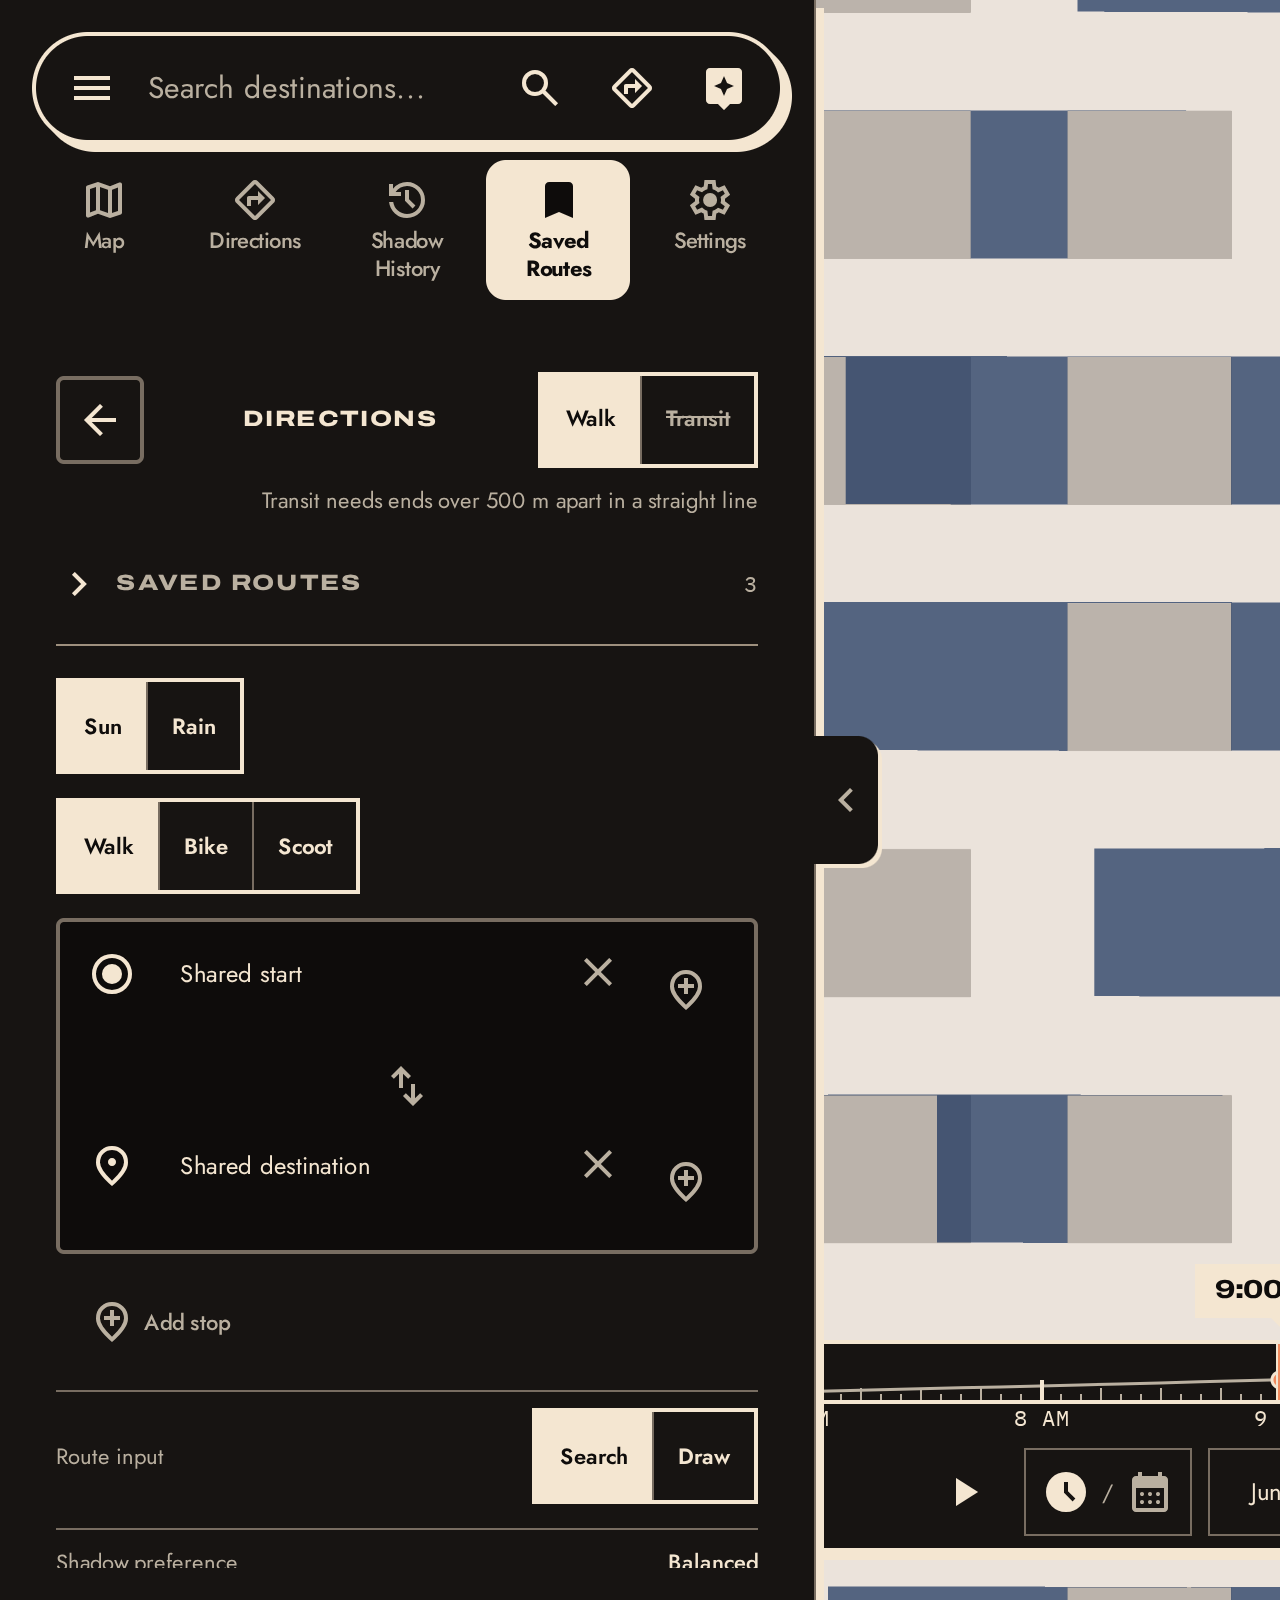
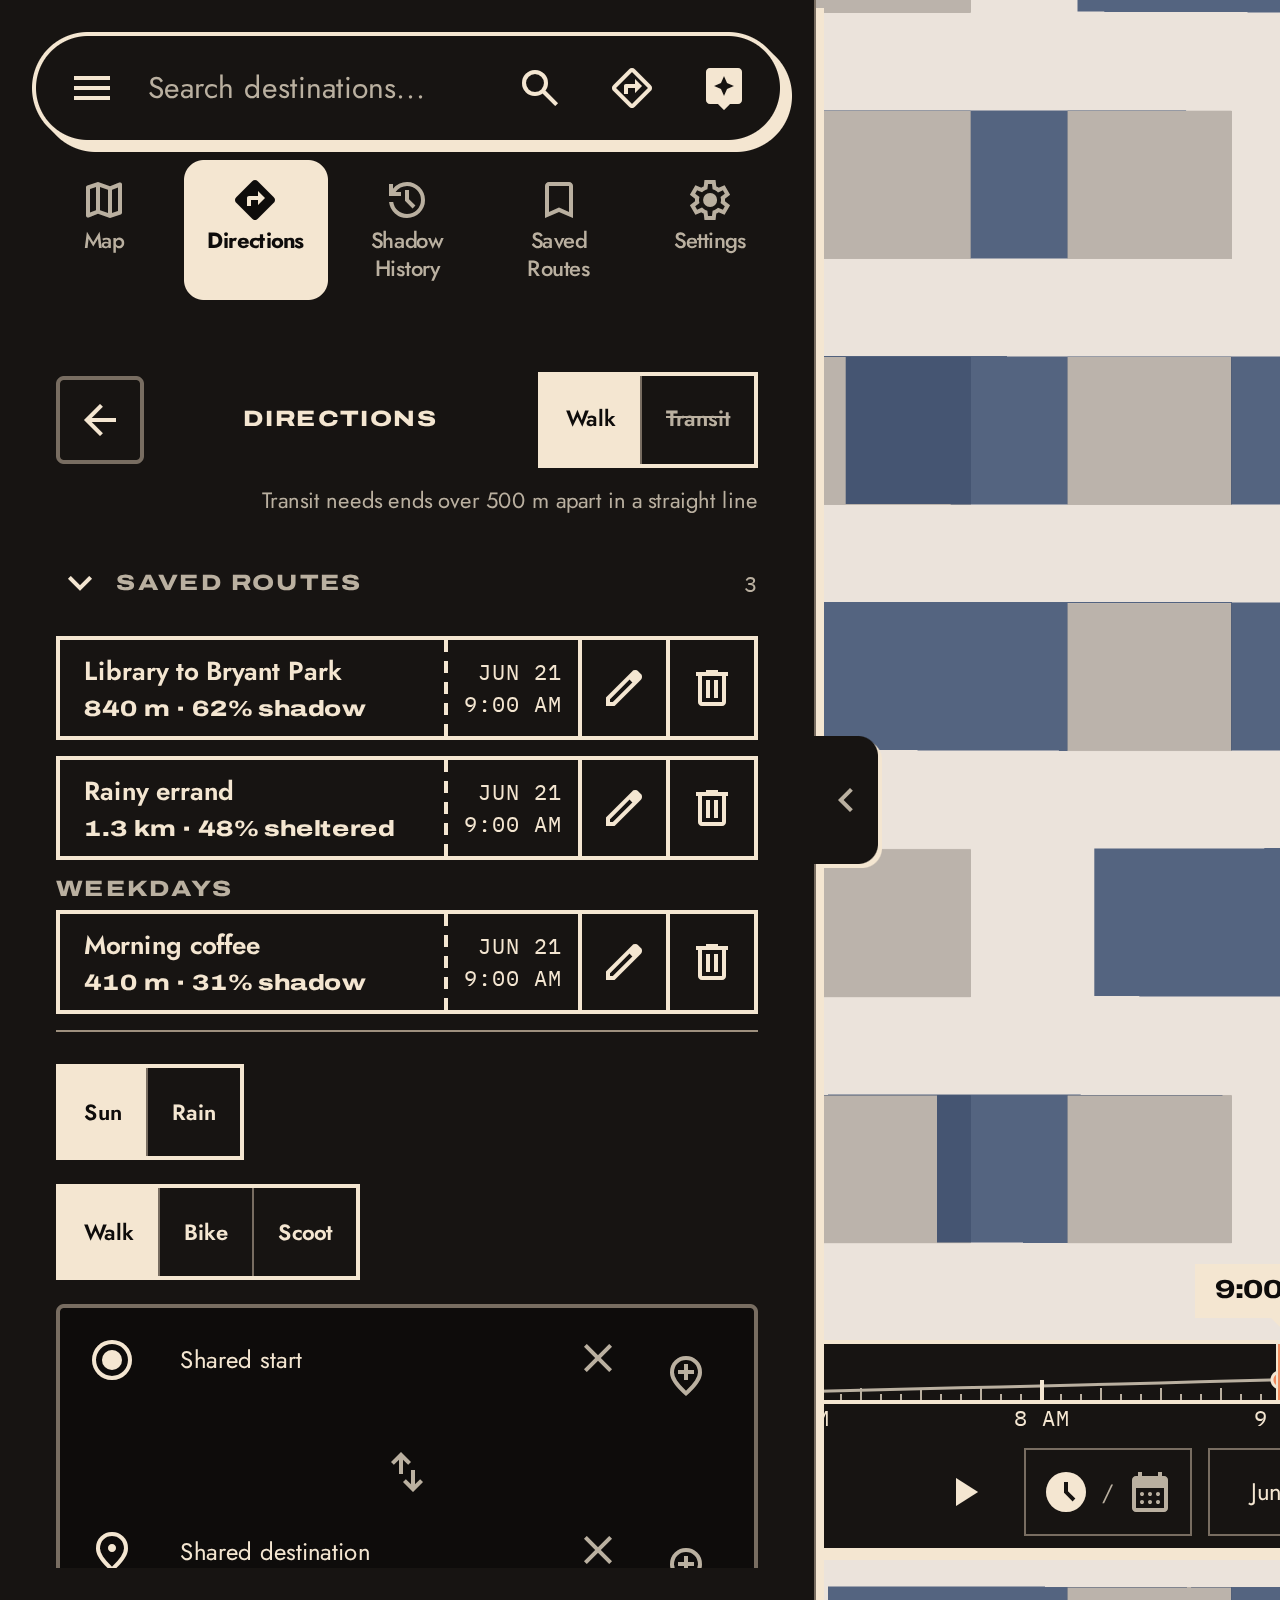
fix(design): R8b review fixes — stub in the departure zone, figure in the number face
The stub printed timeOfDayMinutes, which the save handler takes from the
browser clock, so a 9 PM New York walk saved from Los Angeles read 6 PM;
it now formats trip.departAt in the departure stop's zone. The figure
takes the numeric face in full ink, delete's hover colour shows, folders
are labelled by their kicker, the rename field is 16px and long names get
a title. Shots capture the opened section on desktop too. Records R8b in
the Track R brief.

Refs #189

diff --git a/app/components/SavedRoutesSection.tsx b/app/components/SavedRoutesSection.tsx
@@ -1,16 +1,25 @@
-import { useEffect, useRef, useState, memo } from "react";
+import { useEffect, useId, useRef, useState, memo } from "react";
 import type { SavedRoute, SavedFolder } from "../lib/savedRoutes";
 import { routeShadowLabel } from "../lib/routeTradeoff";
 import Kicker from "./ui/Kicker";
 
-const MONTHS = ["Jan", "Feb", "Mar", "Apr", "May", "Jun", "Jul", "Aug", "Sep", "Oct", "Nov", "Dec"];
-
-/** The date and time a saved figure was computed for, as a ticket stub prints it. */
-function stubDate(dateIso: string, minutes: number): [string, string] {
-  const [, month, day] = dateIso.split("-").map(Number);
-  const h = Math.floor(minutes / 60);
-  const time = `${h % 12 || 12}:${String(minutes % 60).padStart(2, "0")} ${h < 12 ? "AM" : "PM"}`;
-  return [`${MONTHS[month - 1] ?? ""} ${day}`, time];
+/**
+ * The date and time a saved figure was computed for, as a ticket stub prints
+ * it: the trip's departure instant in the departure stop's own zone — the map
+ * place's time the timeline showed, never the browser's clock (a 9 PM New York
+ * walk saved from Los Angeles must not read 6 PM). Null when the record holds
+ * no readable instant or zone.
+ */
+function stubDate(at: { instant: string; zone: string } | undefined): [string, string] | null {
+  const d = at ? new Date(at.instant) : null;
+  if (!at || !d || Number.isNaN(d.getTime())) return null;
+  try {
+    const format = (options: Intl.DateTimeFormatOptions) =>
+      new Intl.DateTimeFormat("en-US", { timeZone: at.zone, ...options }).format(d).replace(/\u202f/g, " ");
+    return [format({ month: "short", day: "numeric" }), format({ hour: "numeric", minute: "2-digit" })];
+  } catch {
+    return null;
+  }
 }
 
 interface SavedRoutesSectionProps {
@@ -34,6 +43,7 @@ const SavedRoutesSection = memo(function SavedRoutesSection({
   const [renamingId, setRenamingId] = useState<string | null>(null);
   const [renameValue, setRenameValue] = useState("");
   const renameInputRef = useRef<HTMLInputElement>(null);
+  const folderIdPrefix = useId();
 
   useEffect(() => {
     if (!renamingId) return;
@@ -72,7 +82,7 @@ const SavedRoutesSection = memo(function SavedRoutesSection({
     const distKm = r.routeOption.distanceM >= 1000
       ? `${(r.routeOption.distanceM / 1000).toFixed(1)} km`
       : `${Math.round(r.routeOption.distanceM)} m`;
-    const [day, time] = stubDate(r.dateIso, r.timeOfDayMinutes);
+    const stub = stubDate(r.trip?.departAt);
     return (
       <li key={r.id} className="flex min-w-0 border-2 border-ink bg-panel">
         {renamingId === r.id ? (
@@ -87,7 +97,8 @@ const SavedRoutesSection = memo(function SavedRoutesSection({
             }}
             onBlur={() => commitRename(r.id)}
             className="min-h-11 min-w-0 flex-1 px-3 focus-visible:outline-2 focus-visible:-outline-offset-4 focus-visible:outline-current"
-            style={{ background: "var(--color-ground)", color: "var(--color-ink)", fontSize: "var(--text-small)" }}
+            // 16px: anything smaller makes iOS Safari zoom when the field takes focus.
+            style={{ background: "var(--color-ground)", color: "var(--color-ink)", fontSize: "1rem" }}
           />
         ) : (
           <button type="button"
@@ -95,31 +106,31 @@ const SavedRoutesSection = memo(function SavedRoutesSection({
             className="flex min-h-11 min-w-0 flex-1 items-stretch text-left hover:bg-ground focus-visible:outline-2 focus-visible:-outline-offset-4 focus-visible:outline-current"
           >
             <span className="flex min-w-0 flex-1 flex-col justify-center px-3 py-1.5">
-              <span className="truncate font-semibold" style={{ color: "var(--color-ink)", fontSize: "var(--text-small)" }}>{r.name}</span>
-              <span className="text-[11px] tabular-nums" style={{ color: "var(--color-ink-muted)" }}>{distKm} · {protectionLabel}</span>
+              <span className="truncate font-semibold" title={r.name} style={{ color: "var(--color-ink)", fontSize: "var(--text-small)" }}>{r.name}</span>
+              <span className="font-numeric text-[11px] font-extrabold tabular-nums" style={{ color: "var(--color-ink)" }}>{distKm} · {protectionLabel}</span>
             </span>
-            <span
-              className="flex shrink-0 flex-col items-end justify-center border-l-2 border-dashed border-ink px-2 font-mono text-[11px] uppercase tabular-nums"
-              style={{ color: "var(--color-ink)" }}
-            >
-              <span>{day}</span>
-              <span>{time}</span>
-            </span>
+            {stub && (
+              <span
+                className="flex shrink-0 flex-col items-end justify-center border-l-2 border-dashed border-ink px-2 font-mono text-[11px] uppercase tabular-nums"
+                style={{ color: "var(--color-ink)" }}
+              >
+                <span>{stub[0]}</span>
+                <span>{stub[1]}</span>
+              </span>
+            )}
           </button>
         )}
         <button type="button"
           onClick={() => { setRenamingId(r.id); setRenameValue(r.name); }}
           aria-label={`Rename ${r.name}`}
-          className="flex w-11 shrink-0 items-center justify-center border-l-2 border-ink focus-visible:outline-2 focus-visible:-outline-offset-4 focus-visible:outline-current"
-          style={{ color: "var(--color-ink)" }}
+          className="flex w-11 shrink-0 items-center justify-center border-l-2 border-ink text-ink focus-visible:outline-2 focus-visible:-outline-offset-4 focus-visible:outline-current"
         >
           <span className="material-symbols-outlined text-lg" aria-hidden="true">edit</span>
         </button>
         <button type="button"
           onClick={() => { if (confirm(`Delete "${r.name}"?`)) onDelete(r.id); }}
           aria-label={`Delete ${r.name}`}
-          className="flex w-11 shrink-0 items-center justify-center border-l-2 border-ink hover:text-danger focus-visible:outline-2 focus-visible:-outline-offset-4 focus-visible:outline-current"
-          style={{ color: "var(--color-ink)" }}
+          className="flex w-11 shrink-0 items-center justify-center border-l-2 border-ink text-ink hover:text-danger focus-visible:outline-2 focus-visible:-outline-offset-4 focus-visible:outline-current"
         >
           <span className="material-symbols-outlined text-lg" aria-hidden="true">delete</span>
         </button>
@@ -151,8 +162,8 @@ const SavedRoutesSection = memo(function SavedRoutesSection({
         <div className="mt-1 flex flex-col gap-2">
           {uncategorised.length > 0 && <ul className="flex flex-col gap-2">{uncategorised.map(renderRoute)}</ul>}
           {byFolder.map(({ folder, routes: fr }) => (
-            <section key={folder.id} aria-label={folder.name} className="flex flex-col gap-1">
-              <Kicker>{folder.name}</Kicker>
+            <section key={folder.id} aria-labelledby={`${folderIdPrefix}-${folder.id}`} className="flex flex-col gap-1">
+              <Kicker id={`${folderIdPrefix}-${folder.id}`}>{folder.name}</Kicker>
               <ul className="flex flex-col gap-2">{fr.map(renderRoute)}</ul>
             </section>
           ))}

diff --git a/app/components/__tests__/SavedRoutesSection.test.tsx b/app/components/__tests__/SavedRoutesSection.test.tsx
@@ -5,6 +5,7 @@ import SavedRoutesSection from "../SavedRoutesSection";
 import type { ResolvedExposureContext } from "../../lib/exposure";
 import type { RouteOption } from "../../lib/routing";
 import type { SavedFolder, SavedRoute } from "../../lib/savedRoutes";
+import type { Trip } from "../../lib/trip/types";
 
 afterEach(() => {
   cleanup();
@@ -42,6 +43,8 @@ function saved(id: string, name: string, option: Partial<RouteOption>, extra: Pa
     timeOfDayMinutes: 9 * 60,
     dateIso: "2026-06-21",
     createdAt: 1,
+    // 13:00Z is 9:00 AM in New York, the departure stop's zone.
+    trip: { departAt: { instant: "2026-06-21T13:00:00Z", zone: "America/New_York" } } as unknown as Trip,
     ...extra,
   };
 }
@@ -65,12 +68,28 @@ describe("SavedRoutesSection as ticket stubs (R8b)", () => {
   });
 
   it("prints the date and time the saved figure was computed for on the stub", () => {
-    show([saved("a", "Library walk", {}, { dateIso: "2026-06-21", timeOfDayMinutes: 13 * 60 + 5 })]);
+    show([saved("a", "Library walk", {})]);
 
     const ticket = screen.getByRole("button", { name: /^Library walk/ });
     expect(within(ticket).getByText("840 m · 62% shadow")).toBeTruthy();
     expect(within(ticket).getByText("Jun 21")).toBeTruthy();
-    expect(within(ticket).getByText("1:05 PM")).toBeTruthy();
+    expect(within(ticket).getByText("9:00 AM")).toBeTruthy();
+  });
+
+  it("prints the stub in the departure stop's zone, not the browser's", () => {
+    // 01:00Z on Jun 22 is 9 PM on Jun 21 in New York, whatever zone the test runs in.
+    const trip = { departAt: { instant: "2026-06-22T01:00:00Z", zone: "America/New_York" } } as unknown as Trip;
+    show([saved("a", "Evening walk", {}, { trip, dateIso: "2026-06-21", timeOfDayMinutes: 18 * 60 })]);
+
+    expect(screen.getByText("Jun 21")).toBeTruthy();
+    expect(screen.getByText("9:00 PM")).toBeTruthy();
+  });
+
+  it("prints no stub when the record holds no departure", () => {
+    show([saved("a", "Library walk", {}, { trip: undefined })]);
+
+    expect(screen.getByText("840 m · 62% shadow")).toBeTruthy();
+    expect(screen.queryByText(/AM|PM/)).toBeNull();
   });
 
   it("says after sunset for a night walk, as its route card did", () => {
@@ -79,9 +98,11 @@ describe("SavedRoutesSection as ticket stubs (R8b)", () => {
       time: new Date("2026-06-21T03:00:00Z"),
       referenceLocation: { lat: 40.754, lng: -73.984 },
     } as ResolvedExposureContext;
-    show([saved("a", "Late walk", { shadowCoverage: 1, objective: "sun", evaluatedContext }, { timeOfDayMinutes: 23 * 60 })]);
+    const trip = { departAt: { instant: "2026-06-21T03:00:00Z", zone: "America/New_York" } } as unknown as Trip;
+    show([saved("a", "Late walk", { shadowCoverage: 1, objective: "sun", evaluatedContext }, { trip })]);
 
     expect(screen.getByText("840 m · after sunset")).toBeTruthy();
+    expect(screen.getByText("Jun 20")).toBeTruthy();
     expect(screen.getByText("11:00 PM")).toBeTruthy();
     expect(screen.queryByText(/100% shadow/)).toBeNull();
   });

diff --git a/e2e/shots/r8b-review.spec.ts b/e2e/shots/r8b-review.spec.ts
@@ -5,8 +5,8 @@ import { loadEnv } from "vite";
 import { SHARE_URL, WAYPOINT_A, WAYPOINT_B, stubNetwork } from "../helpers/scenario";
 
 // Run with R8B_STAGE=before against the R8a preview, then R8B_STAGE=after against the
-// R8b preview. Three v1 saved routes are seeded (a sun walk, a rain walk with unknown
-// shelter, and a sun walk in a folder) and the Saved routes section is opened in the
+// R8b preview. Three v1 saved routes are seeded (a sun walk, a rain walk and a sun
+// walk in a folder) and the Saved routes section is opened in the
 // directions sheet: `saved-*` at the phone's mid snap, `saved-full-*` with the sheet
 // raised, `desktop-saved-*` the sidebar.
 const stage = process.env.R8B_STAGE;
@@ -46,7 +46,7 @@ const ROUTES = [
 const FOLDERS = [{ id: "f1", name: "Weekdays", createdAt: 1 }];
 
 async function openSaved(page: Page) {
-  const toggle = page.getByRole("button", { name: /Saved routes/i }).filter({ visible: true }).first();
+  const toggle = page.getByRole("button", { name: /Saved routes\s*\d/i }).filter({ visible: true }).first();
   await toggle.click();
   await page.waitForTimeout(500);
 }

diff --git a/docs/tracks/TRACK_R.md b/docs/tracks/TRACK_R.md
@@ -24,7 +24,18 @@ inspiration; the public mirror publishes everything here.
 
 ## Current state
 
-- **Active checkpoint:** R8a (#191), the first slice of R8, split into R8a arrival
+- **Active checkpoint:** R8b (#189), stacked on R8a (PR #194). Each saved route is a
+  square 2px ink ticket: name (Jost 600, `title` for truncation), the figure in the
+  numeric face in full ink, then past a dashed perforation the date and time the
+  figure was computed for, printed from `trip.departAt` in the departure stop's own
+  zone (the map place's time, not the browser clock that `timeOfDayMinutes` holds; v1
+  records migrate with the browser zone, the only zone their reading has), then
+  rename and delete as always-visible 44px cells (hover-only before, unreachable on a
+  phone). A sun figure is `routeShadowLabel`, so a night walk says "after sunset" and a
+  transit one "on foot". The disclosure is a 44px kicker row with `aria-expanded`;
+  folders are regions labelled by their kicker; the rename field is 16px (no iOS
+  zoom). Shots: `docs/design/shots/r8b/`.
+- **R8a (open, PR #194):** the first slice of R8, split into R8a arrival
   postcard (#191), R8b saved-route ticket stubs (#189) and R8c empty states and voice
   pass (#190). `ArrivalPanel` is a square 2px ink postcard with the hard shadow: a
   "Greetings from" kicker plate over the destination as a Grenze `h2` (screen readers
@@ -191,7 +202,7 @@ inspiration; the public mirror publishes everything here.
   (`app/components/mapPins.ts`, 44px square host, letter or number always shown); a
   reticle user dot; orange only on the sun diagram's daylight marks. No overlay colour is
   blue-dominant, so a drawn route no longer reads as shade (the old `#1d6ee0` did).
-- **Open PRs:** R8a #194 (fixes #191). R8a follow-ups: #192 (rain transit sheltered share is walk-only, unstated), #193 (arrival not announced; bar basis hidden from screen readers). R7b follow-ups: #177 (typeahead re-opens after a pick), #178 (place entry drops the row's hours/rating/photo; Directory distances freeze while panning), #181 (selected place pin and sheet offset, photo sizing, website scheme, shot coverage). R7a follow-up: #175 (row alignment, hours truncation, hover, focus vs highlight, grouping). R6b follow-ups: #165 (design:check red on main: issue refs read as colours, three arbitrary offsets), #166 (Track D: night hours count as most shadowed), #167 (Track E: night Pareto detours), #168 (pill tiers stale after a time change), #169 (board column width, placement, desktop keys). R6a follow-up still open: #163 (ruler keyboard access). Older follow-ups: #140 (Track G: unit flakes under load); #124, #125, #126 (R2);
+- **Open PRs:** R8b (base R8a, see #189), R8a #194 (fixes #191). R8b follow-ups: #195 (delete beside rename, focus loss, list height), #196 (a save during playback pairs a stale figure with the new time); #190 notes that Saved routes has no empty state yet and the desktop Saved Routes tab is a dead control. R8a follow-ups: #192 (rain transit sheltered share is walk-only, unstated), #193 (arrival not announced; bar basis hidden from screen readers). R7b follow-ups: #177 (typeahead re-opens after a pick), #178 (place entry drops the row's hours/rating/photo; Directory distances freeze while panning), #181 (selected place pin and sheet offset, photo sizing, website scheme, shot coverage). R7a follow-up: #175 (row alignment, hours truncation, hover, focus vs highlight, grouping). R6b follow-ups: #165 (design:check red on main: issue refs read as colours, three arbitrary offsets), #166 (Track D: night hours count as most shadowed), #167 (Track E: night Pareto detours), #168 (pill tiers stale after a time change), #169 (board column width, placement, desktop keys). R6a follow-up still open: #163 (ruler keyboard access). Older follow-ups: #140 (Track G: unit flakes under load); #124, #125, #126 (R2);
   #130 (R3); #137 (labels in shade ~2:1), #138 (R6 sheet edge); #147 (night wording left in
   SolarPill, leg rows, route labels); #150 (waypoint × under 44px), #151 (segmented as radio); #154 (Track G: refresh timer after jsdom teardown); filed elsewhere from R5a: #144, #145 (E), #146 (A).
 - **Decisions made:** D1–D5 in `docs/design/decision.md` are owner-approved and
@@ -204,7 +215,13 @@ inspiration; the public mirror publishes everything here.
   start action is a square ink button with the hard shadow, not a clipped plate (D4); transit
   bullets keep each line's published colour (N yellow, L grey) so cards match the map.
   Still open from R4b: hollow A/filled B swap at night; the opaque night route covers labels.
-- **Next action:** owner review of R8a, then R8b (#189). #126 keeps its SettingsPanel/SaveRouteModal half.
+- **Next action:** owner review of R8a #194 and R8b in stack order, then R8c (#190). #126 keeps its SettingsPanel/SaveRouteModal half.
+- **Last verified (R8b):** 2026-10-01 on Node 24; lint (0 errors, 79 baseline warnings),
+  typecheck, 1,857 unit tests (the stub suite also passes under TZ=UTC, Los Angeles and
+  Tokyo), build and e2e. design:check reports the 9 findings already on main (#165),
+  none new. Day and night 390×844 and desktop before/after shots on the fixture
+  basemap; focus rings and rename mode are not in a shot, and a real-phone look is
+  outstanding.
 - **Last verified (R8a):** 2026-10-01 on Node 24; lint (0 errors, 79 baseline warnings),
   typecheck, 1,849 unit tests, build and e2e 12/12 (no MapTiler key, so smoke-live did
   not run). design:check reports the 9 findings already on main (#165), none new.
